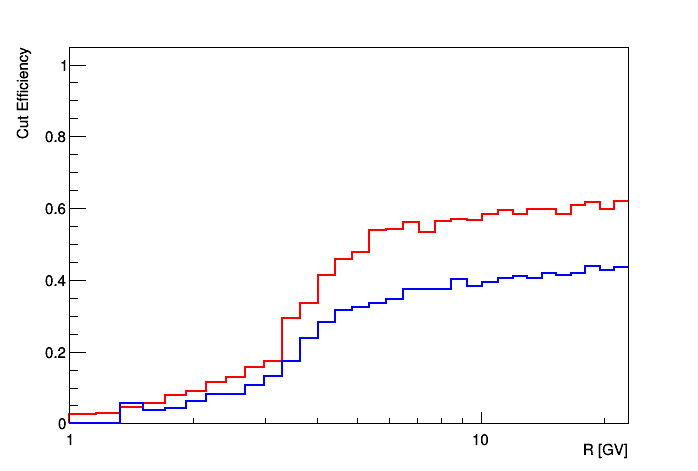
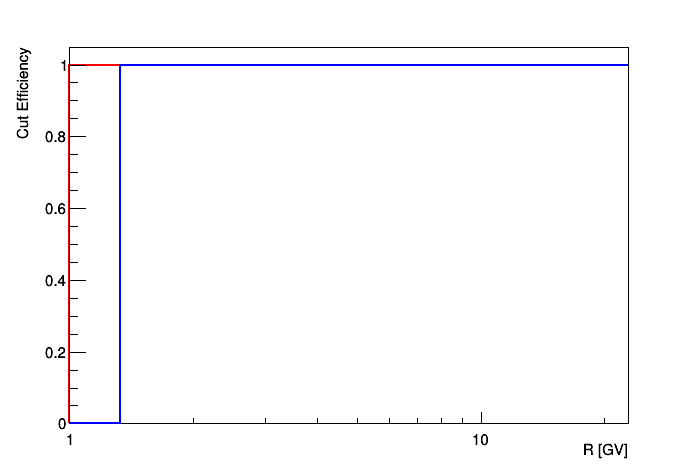
update 15-12-20

diff --git a/ProtonAnalysis_Runs.C b/ProtonAnalysis_Runs.C
@@ -63,11 +63,11 @@ class Anaaqra {
     TH1F *FluxHist        = new TH1F("FluxHist", "Flux per Rigidity Bin", 32, Bin_edges);
 
     // Data objects
-    TChain *Simp_chain    = new TChain("Simp");
+    TChain *Simp_chain    = new TChain("Compact");
     TChain *RTII_chain    = new TChain("RTIInfo");
     TChain *MC_chain      = new TChain("Compact");
-    Miiqtool *Tool        = new Miiqtool();
-    MiiqRTI *Woi          = new MiiqRTI();
+    NtpCompact *Tool        = new NtpCompact();
+    RTIInfo *Woi          = new RTIInfo();
     NtpCompact *MC_comp   = new NtpCompact();
 
     // TGraph arrays
@@ -107,12 +107,12 @@ class Anaaqra {
       }
 
       // Read the trees
-      Simp_chain->Add("../Simp.root");
-      RTII_chain->Add("../Simp.root");
+      Simp_chain->Add("../Runs/*.root");
+      RTII_chain->Add("../Runs/*.root");
       MC_chain->Add("../MC Protons/*.root");
       // Set branch addresses
-      Simp_chain->SetBranchAddress("Simp", &Tool);
-      RTII_chain->SetBranchAddress("RTI", &Woi);
+      Simp_chain->SetBranchAddress("Compact", &Tool);
+      RTII_chain->SetBranchAddress("RTIInfo", &Woi);
       MC_chain->SetBranchAddress("Compact", &MC_comp);
 
       cout << "Class succesfully constructed!\n" << endl;
@@ -259,23 +259,23 @@ void Anaaqra::ParameterAnalysis(const char* cutbit = "111111111") {
     // Fill raw histograms
     tofbeta_raw->Fill(Tool->tof_beta);
     richbeta_raw->Fill(Tool->rich_beta);
-    rig_raw->Fill(Tool->trk_rig);
-    chisq_raw->Fill(Tool->trk_chisqn[1]);
+    rig_raw->Fill(Tool->trk_rig[0]);
+    chisq_raw->Fill(Tool->trk_chisqn[0][1]);
     qinn_raw->Fill(Tool->trk_q_inn);
     qlay_raw->Fill(Tool->trk_q_lay[0]);
-    mass_raw->Fill(Tool->trk_q_inn * Tool->trk_rig * TMath::Sqrt(1 / Tool->rich_beta / Tool->rich_beta - 1));
-    utime_raw->Fill(Tool->utime);
+    mass_raw->Fill(Tool->trk_q_inn * Tool->trk_rig[0] * TMath::Sqrt(1 / Tool->rich_beta / Tool->rich_beta - 1));
+    //utime_raw->Fill(Tool->utime);
 
     // Fill cut histograms if selected
-    if (EventSelectorSimple(Tool, cutbit)) {
+    if (EventSelectorCompact(Tool, cutbit)) {
       tofbeta_cut->Fill(Tool->tof_beta);
       richbeta_cut->Fill(Tool->rich_beta);
-      rig_cut->Fill(Tool->trk_rig);
-      chisq_cut->Fill(Tool->trk_chisqn[1]);
+      rig_cut->Fill(Tool->trk_rig[0]);
+      chisq_cut->Fill(Tool->trk_chisqn[0][1]);
       qinn_cut->Fill(Tool->trk_q_inn);
       qlay_cut->Fill(Tool->trk_q_lay[0]);
-      mass_cut->Fill(Tool->trk_q_inn * Tool->trk_rig * TMath::Sqrt(1 / Tool->rich_beta / Tool->rich_beta - 1));
-      utime_cut->Fill(Tool->utime);
+      mass_cut->Fill(Tool->trk_q_inn * Tool->trk_rig[0] * TMath::Sqrt(1 / Tool->rich_beta / Tool->rich_beta - 1));
+      //utime_cut->Fill(Tool->utime);
     }
 
   }
@@ -450,9 +450,9 @@ void Anaaqra::RigBinner() {
     Simp_chain->GetEntry(i);
 
     // Fill histograms
-    Events_raw->Fill(Tool->trk_rig);
-    if (EventSelectorSimple(Tool, "111111111")) {
-      Events_cut->Fill(Tool->trk_rig);
+    Events_raw->Fill(Tool->trk_rig[0]);
+    if (EventSelectorCompact(Tool, "111111111")) {
+      Events_cut->Fill(Tool->trk_rig[0]);
     }
 
   }
@@ -508,7 +508,7 @@ void Anaaqra::Exposure() {
     for (int j=0; j<Bin_num; j++) {
 
       // If the centre of the bin is above the geo-magnetic cut-off, add the livetime
-      if (Bin_mid[j] > 1.2 * Woi->cf) {
+      if (Bin_mid[j] > 1.2 * Woi->cf[0][3][1]) {
         ExposureTime->SetBinContent(j+1, ExposureTime->GetBinContent(j+1) + Woi->lf);
       }
 
@@ -727,16 +727,16 @@ void Anaaqra::CutEff(bool plot_all = 0) {
     Simp_chain->GetEntry(i);
 
     // Fill base histograms
-    if (EventSelectorSimple(Tool, "110001111")) {Btof_data->Fill(Tool->trk_rig);}
-    if (EventSelectorSimple(Tool, "111110000")) {Btrk_data->Fill(Tool->trk_rig);}
+    if (EventSelectorCompact(Tool, "110001111")) {Btof_data->Fill(Tool->trk_rig[0]);}
+    if (EventSelectorCompact(Tool, "111110000")) {Btrk_data->Fill(Tool->trk_rig[0]);}
 
     // Fill cut histograms
-    if (EventSelectorSimple(Tool, "111001111")) {Cpar_data->Fill(Tool->trk_rig);}
-    //if (EventSelectorSimple(Tool, "110101111")) {Ccon_data->Fill(Tool->trk_rig);}
-    if (EventSelectorSimple(Tool, "110011111")) {Cbet_data->Fill(Tool->trk_rig);}
-    if (EventSelectorSimple(Tool, "111111000")) {Cchi_data->Fill(Tool->trk_rig);}
-    if (EventSelectorSimple(Tool, "111110100")) {Cinn_data->Fill(Tool->trk_rig);}
-    //if (EventSelectorSimple(Tool, "111110010")) {Clay_data->Fill(Tool->trk_rig);}
+    if (EventSelectorCompact(Tool, "111001111")) {Cpar_data->Fill(Tool->trk_rig[0]);}
+    //if (EventSelectorCompact(Tool, "110101111")) {Ccon_data->Fill(Tool->trk_rig[0]);}
+    if (EventSelectorCompact(Tool, "110011111")) {Cbet_data->Fill(Tool->trk_rig[0]);}
+    if (EventSelectorCompact(Tool, "111111000")) {Cchi_data->Fill(Tool->trk_rig[0]);}
+    if (EventSelectorCompact(Tool, "111110100")) {Cinn_data->Fill(Tool->trk_rig[0]);}
+    //if (EventSelectorCompact(Tool, "111110010")) {Clay_data->Fill(Tool->trk_rig[0]);}
 
   }
 
@@ -893,12 +893,12 @@ void Anaaqra::TrigEff(int delta = 100) {
     bool HasUnphTrig = ((Tool->sublvl1&0x3E)==0)&&((Tool->trigpatt&0x2)!=0);
 
     // Fill histograms
-    if (EventSelectorSimple(Tool, "101111110")) {
+    if (EventSelectorCompact(Tool, "101111111")) {
       if (HasPhysTrig) {
-        PhysHist_data->Fill(Tool->trk_rig);
+        PhysHist_data->Fill(Tool->trk_rig[0]);
       }
       if (HasUnphTrig) {
-        UnphHist_data->Fill(Tool->trk_rig);
+        UnphHist_data->Fill(Tool->trk_rig[0]);
       }
     }
 
